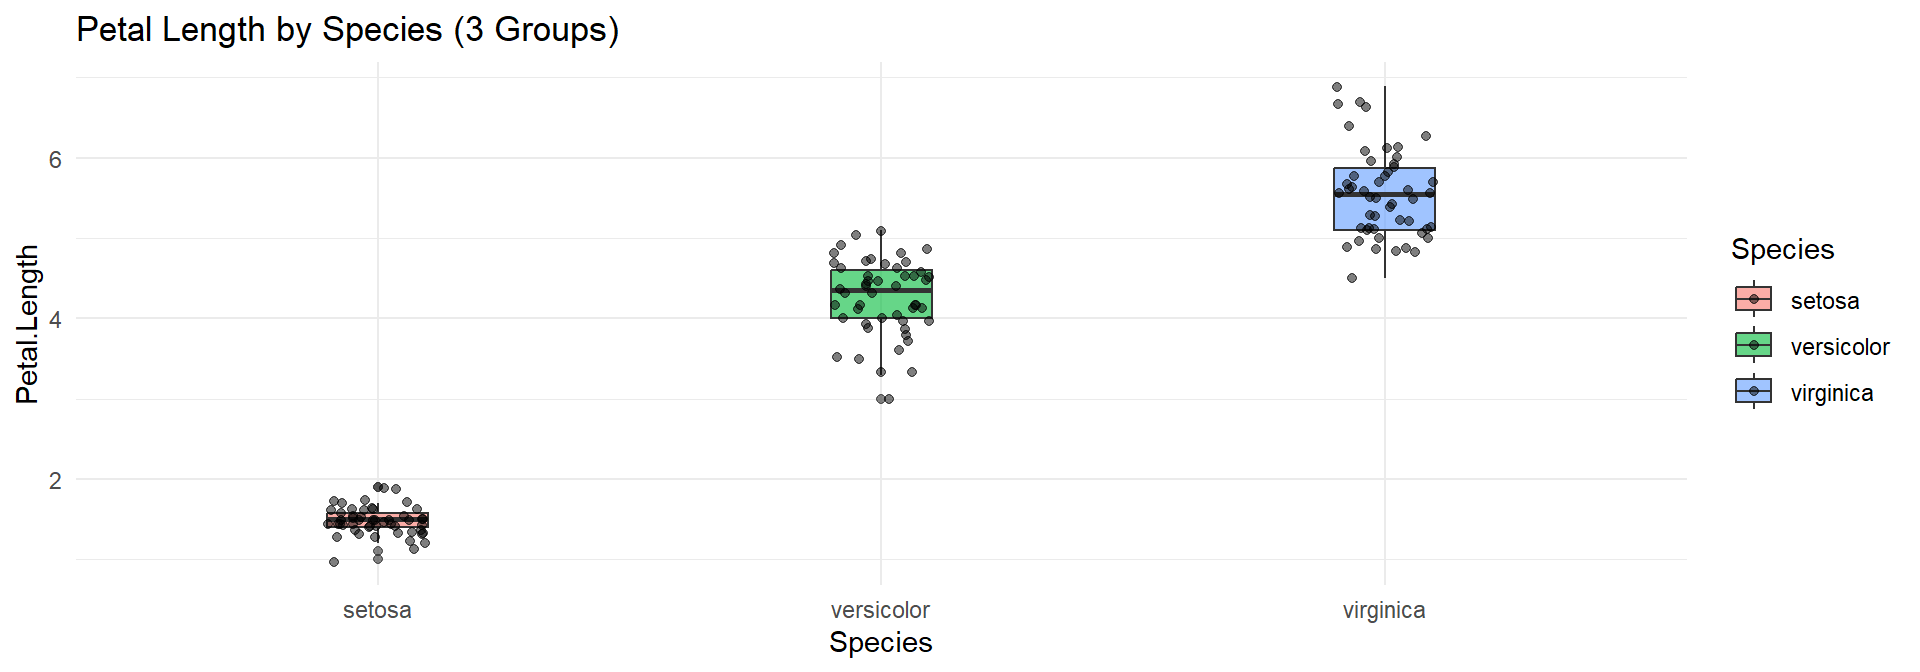
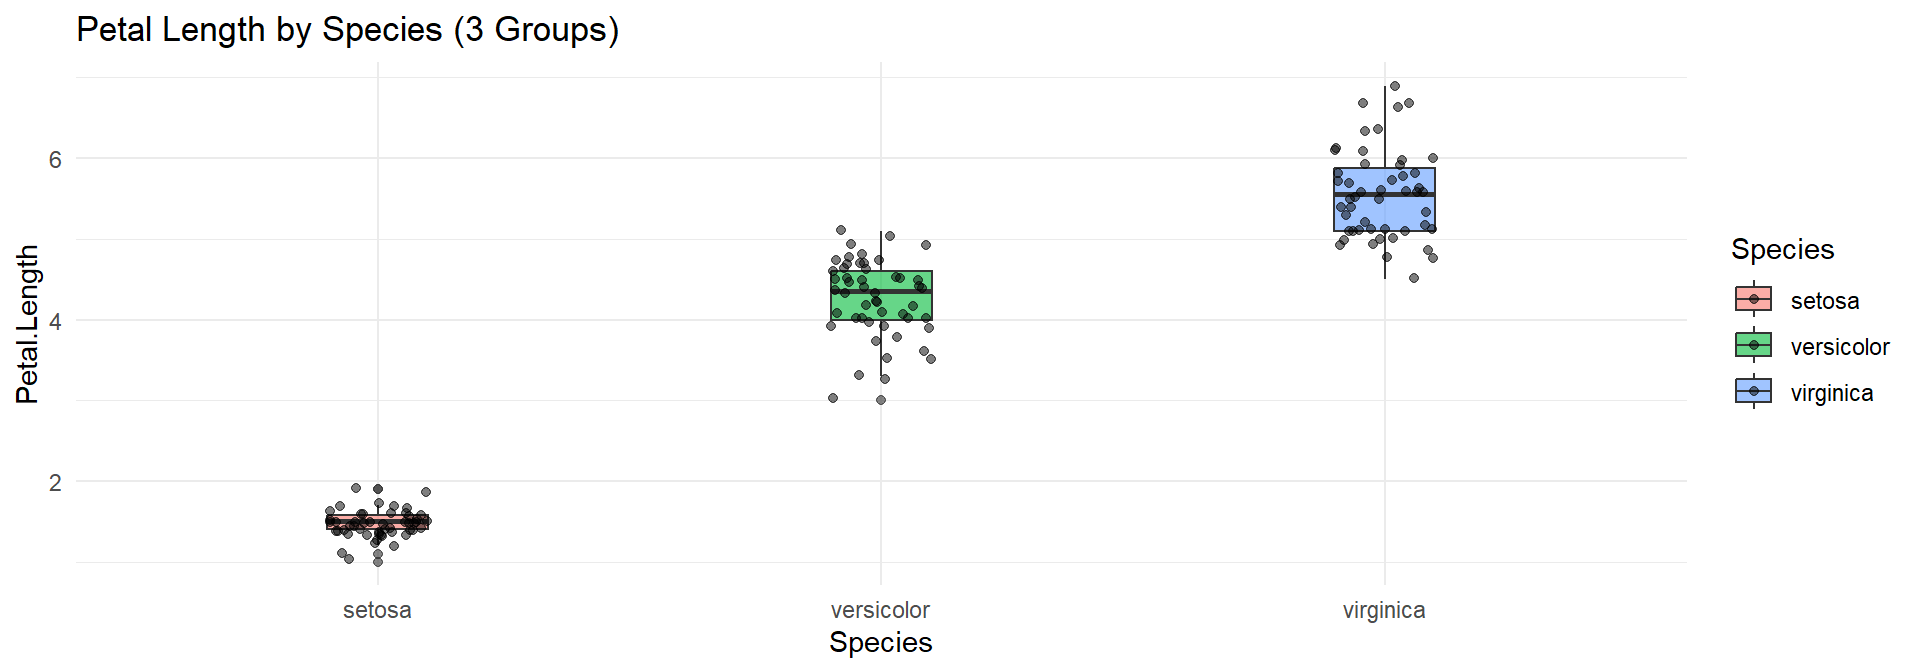
update nonparam

Changed region(s): [[0.6875, 0.125, 0.75, 0.4062], [0.4062, 0.3438, 0.5, 0.5625], [0.1562, 0.7188, 0.25, 0.8438]]

diff --git a/docs/nonparam.html b/docs/nonparam.html
@@ -498,8 +498,8 @@ Dr K.J. Mhango
 <ul>
 <li><a href="#/non-parametric-alternative-if-assumptions-break-2" id="/toc-spearmans-rank-correlation">Spearman’s Rank Correlation</a></li>
 <li><a href="#/non-parametric-alternative-if-assumptions-break-2" id="/toc-kendalls-tau">Kendall’s Tau</a></li>
-<li><a href="#/non-parametric-alternative-if-assumptions-break-2" id="/toc-summary-use-a-non-parametric-test-when">Summary: Use a non-parametric test when:</a></li>
 </ul></li>
+<li><a href="#/summary-use-a-non-parametric-test-when" id="/toc-summary-use-a-non-parametric-test-when">Summary: Use a non-parametric test when:</a></li>
 </ul></li>
 </ul>
 </nav>
@@ -1452,7 +1452,9 @@ sample estimates:
 <li><p>Better for small samples or many ties.</p></li>
 <li><p>Interpretation: “There is a strong positive monotonic correlation between sepal length and petal length.”</p></li>
 </ul>
-<h3 id="summary-use-a-non-parametric-test-when">Summary: Use a non-parametric test when:</h3>
+</section>
+<section id="summary-use-a-non-parametric-test-when" class="slide level2">
+<h2>Summary: Use a non-parametric test when:</h2>
 <ul>
 <li>Data are <strong>clearly non-normal</strong> (Shapiro–Wilk fails; Q–Q plots bend strongly).</li>
 <li><strong>Variances differ strongly</strong> across groups (Levene fails).</li>
